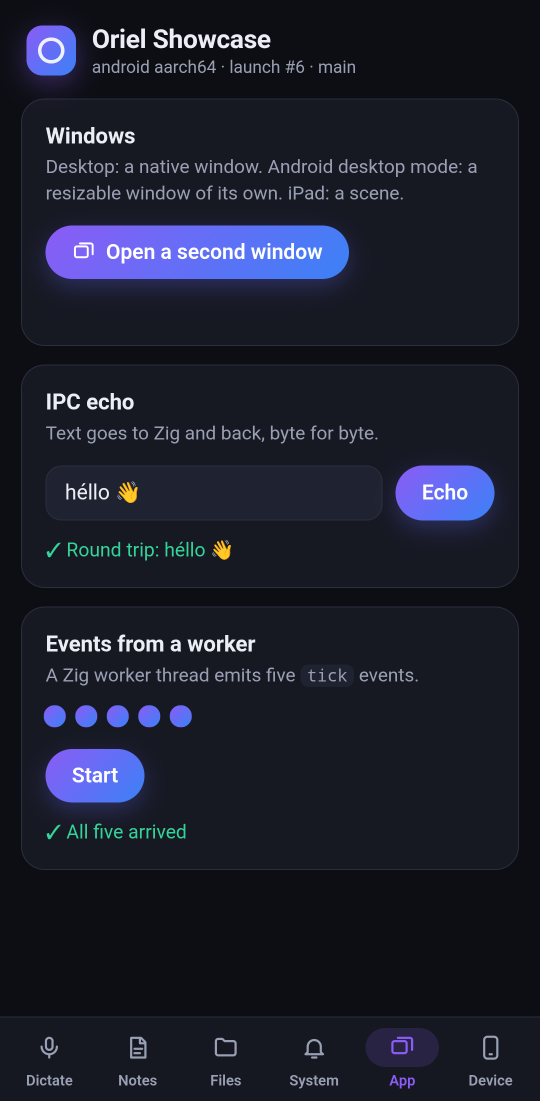
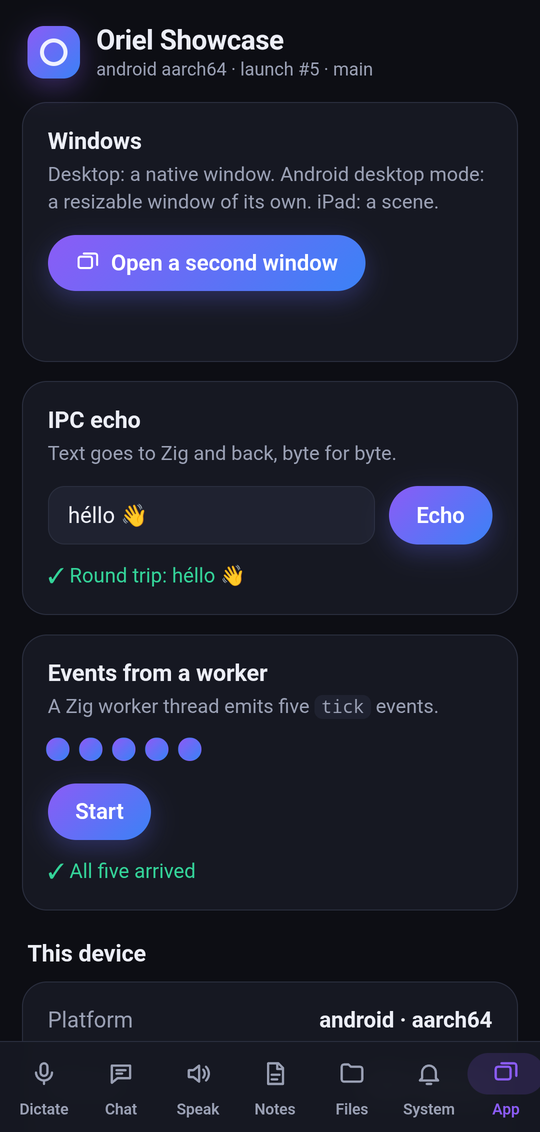
site: the showcase's Speak tab, and Notes, System and App retaken
A new Speak screenshot (Kokoro on a Poco X3's CPU, with its result card),
and Notes, System and App retaken so their tab bar includes Chat and
Speak. Dictate and Chat keep their Pixel shots and GPU numbers; the intro
says which phone each comes from. The phone grid is three columns.

diff --git a/site/assets/style.css b/site/assets/style.css
@@ -202,7 +202,7 @@ code, pre { font-family: var(--mono); }
 .shots figcaption { margin-top: 10px; font-size: 14px; color: var(--muted); }
 .shots figcaption strong { color: var(--text); }
 /* Phone screenshots: whole, tall, five across on wide screens. */
-.shots.phones { grid-template-columns: repeat(5, 1fr); align-items: start; }
+.shots.phones { grid-template-columns: repeat(3, 1fr); align-items: start; }
 .shots.phones img { aspect-ratio: 540 / 1101; height: auto; object-fit: contain; object-position: top; border-radius: 22px;
   background: #0e0f14; /* the app's own background, below a shorter shot */ }
 
